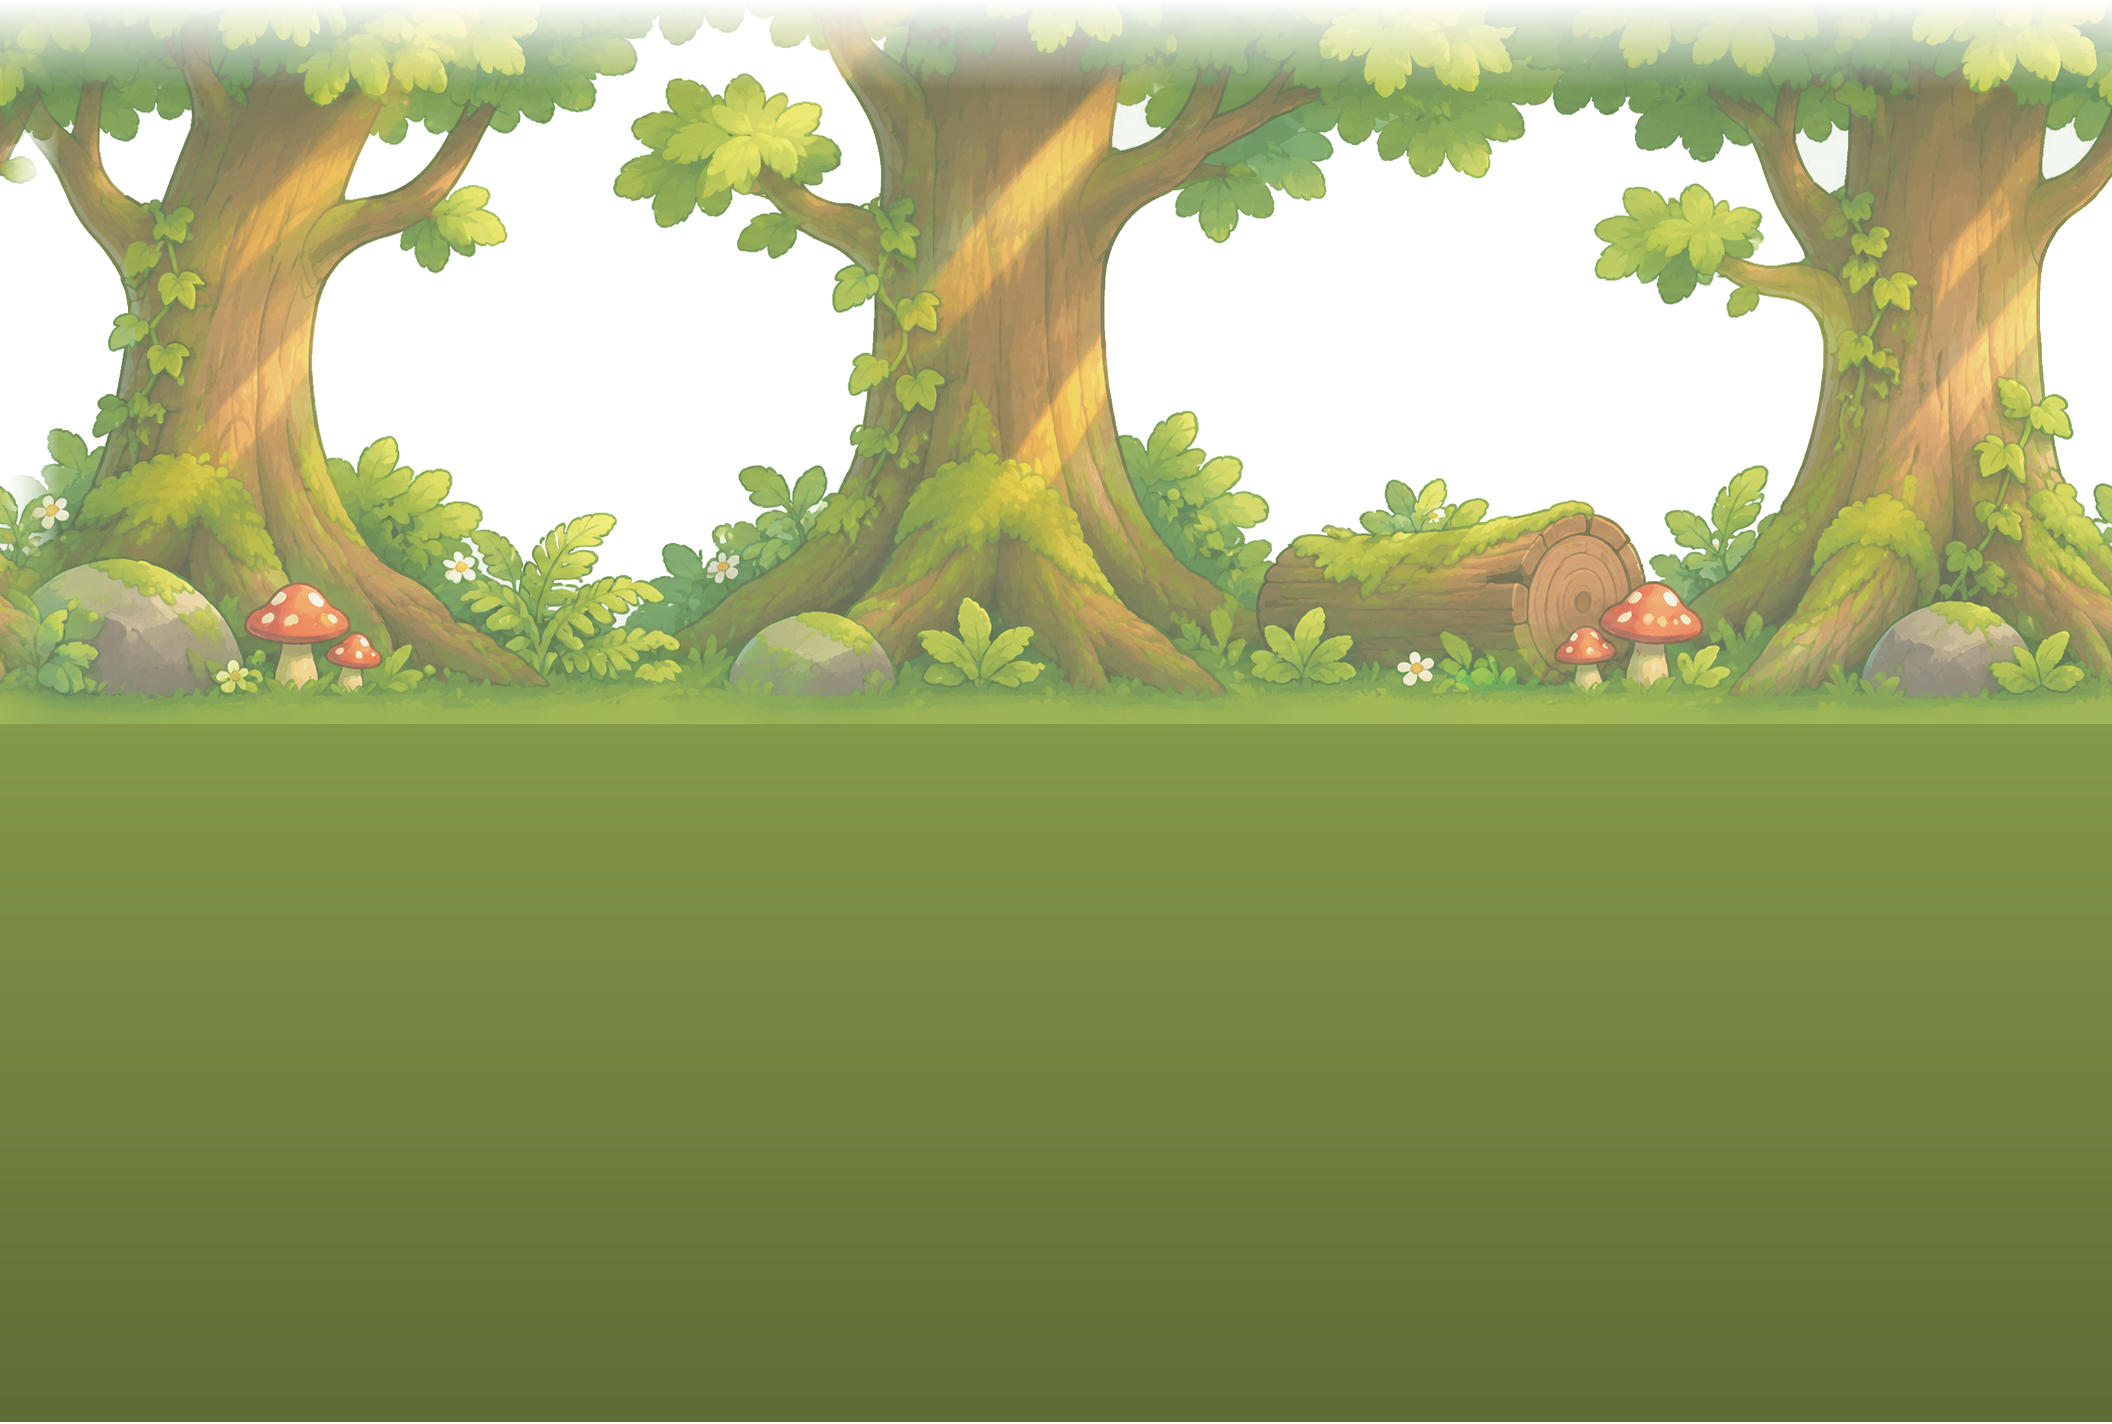
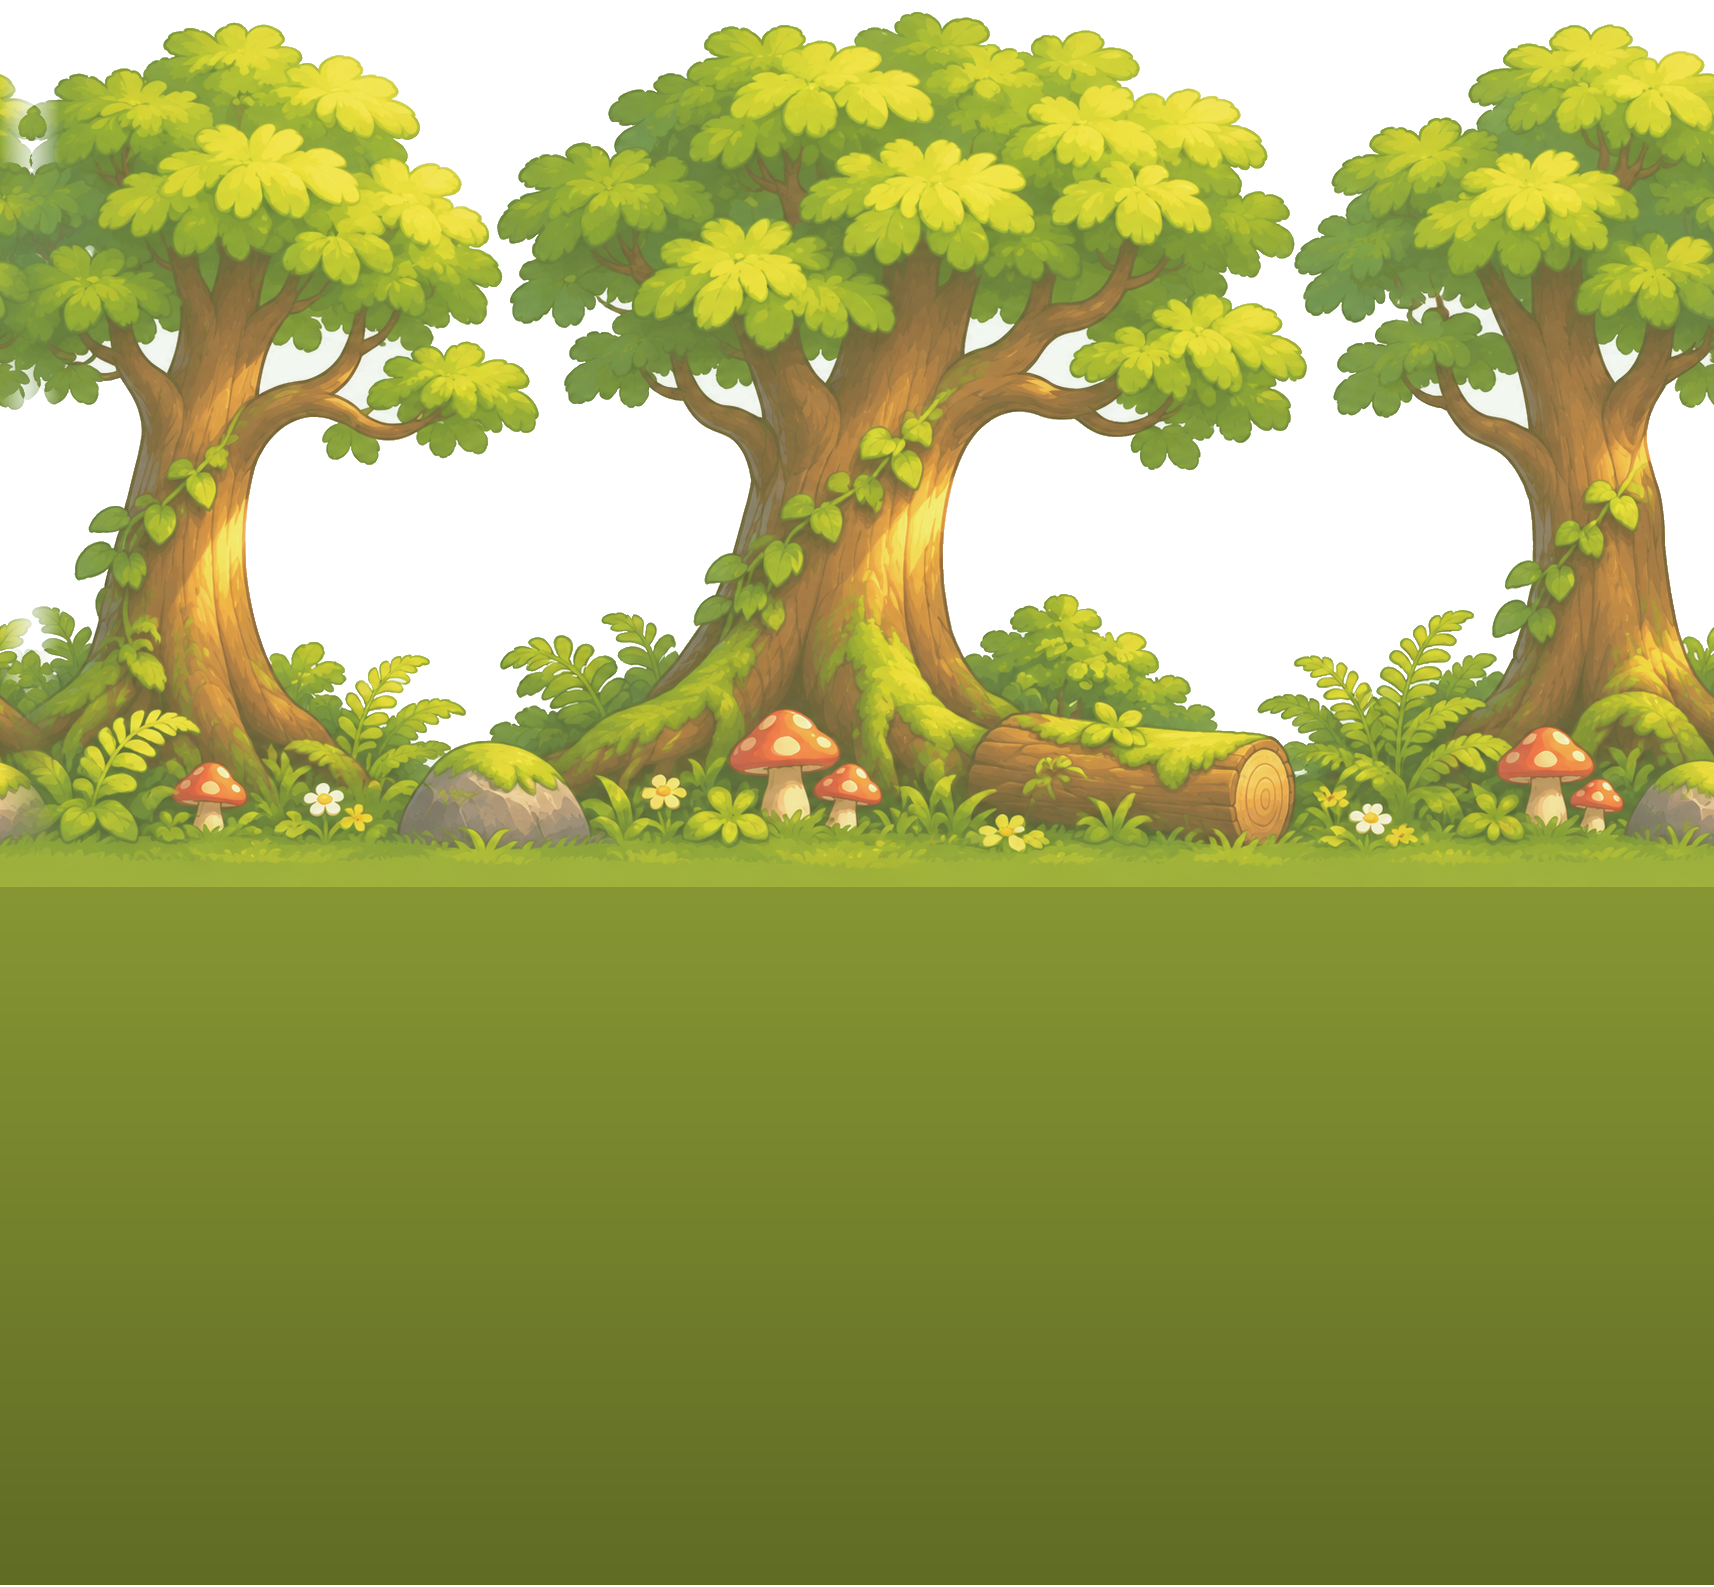
Hidden level-edge walls, taller forest trees, tired face everywhere
Level edge walls stay solid but aren't drawn, and the camera stops at the
ground's ends. The owners' taller trees picture covers the forest all the
way up. When out of energy the cat keeps her sleepy face while walking
(a trudge with a dip and sway) and in the air.

diff --git a/tools/art_pipeline/make_forest.py b/tools/art_pipeline/make_forest.py
@@ -13,7 +13,7 @@ Objects (assets/art/objects): log raft (the forest's moving platform), bump crat
 hedgehog (walk A / B, angry + its "!" burst), pinecone (hanging, falling, landed).
 Background (assets/art/backgrounds/forest):
   far    - sunbeams, canopy and hazy trees (top fades into the plain sky colour)
-  mid    - big mossy trees, white gaps cut away, a light haze so they stay behind the play,
+  mid    - big mossy trees with full crowns, white cut away, a light haze so they stay behind the play,
            grass colour continued below, darkening
 
 Run:  python tools/art_pipeline/make_forest.py   (prints the numbers the game uses)
@@ -47,7 +47,7 @@ HOG_SCALE = 0.22        # hedgehog ~120 px wide, about a slime's size
 CONE_SCALE = 0.17       # pinecone ~55 px wide
 DECO_SCALE = 0.3
 FAR_SCALE = 1.45
-MID_SCALE = 1.0       # the trees are drawn big: at 1.3 a trunk filled half the screen
+MID_SCALE = 1.0       # 1774 x 887: trees about as tall as the screen
 MID_HAZE = (np.array([206.0, 226.0, 196.0]), 0.22)   # colour and strength mixed into the trees layer
 BELOW_ROWS = 700
 
@@ -162,12 +162,14 @@ def main():
     numbers["bg_far"] = save(far, BACK / "bg_far.png")
 
     # The gaps between the trees are closed in by the canopy, so they are cleared as enclosed holes too.
-    mid = remove_background(load("Whimsical Sunlit Forest Strip.png"), hole_min_area=3000)
+    # The owners' taller trees (12 Nov 2026): full crowns inside the picture, so climbing high never
+    # reaches a cut-off canopy. The gaps are closed in by branches: cleared as enclosed holes too.
+    mid = remove_background(load("Vibrant Seamless Cartoon Forest Foreground.png"), hole_min_area=3000)
     mid = np.asarray(scaled(to_image(mid), MID_SCALE)).astype(np.float32)
     mid = crossfade_wrap(mid, 60)
     colour, amount = MID_HAZE
     mid[..., :3] = mid[..., :3] * (1.0 - amount) + colour * amount
-    mid[:90, :, 3] *= np.linspace(0.0, 1.0, 90)[:, None]   # the cut-off canopy fades out at the top
+    mid[:12, :, 3] = 0   # the layer repeats upward too: keep its first rows clear
     grass = mid[-6:, :, :3].reshape(-1, 3)
     grass = grass[mid[-6:, :, 3].reshape(-1) > 200].mean(axis=0)
     below = np.zeros((BELOW_ROWS, mid.shape[1], 4), np.float32)

diff --git a/plan.md b/plan.md
@@ -356,6 +356,7 @@ Order agreed 30 Oct 2026: save system → home page → level map → pause / le
   - ✅ **Step 3, hedgehog + pinecone (12 Nov 2026):** **`hedgehog.tscn`** (`Hedgehog`, extends `Slime`, speed 70): any touch hurts, from the side **or from above** (no stomping); it puffs up for 1 s (angry frame + the "!" burst) after hurting the cat; small, low touch zone (84×64). Frames padded to one canvas in `make_forest.py` so its feet never jump. **Fair window, measured:** a full jump taken 100–300 px before a standing hedgehog clears it, 100–240 px before one walking toward her (from farther she comes down on its spines — intended). **`pinecone.tscn`** (`Pinecone`, origin = its landing spot on the ground): hangs `height` 430 px up (first try 560 was off the top of the screen); wakes when the cat is within 700 px, then **warns for `warn_time` 1 s** (shivers on its twig while a dark oval shadow grows on the ground; first shadow was too faint on grass → darker, bigger), drops (hurts only while falling), thuds, hops, rolls and fades; `every` > 0 repeats the drop on a rhythm, `first_delay` puts cones out of step. Test: `dev/m3_forest_hazards_test.gd` (hedgehog: walks, landing on it hurts, walking into it hurts, 32 fair jumps never hurt; pinecone: waits when far, warns first, hurts if she stays, safe if she runs on, repeats). Preview level has one of each.
   - ✅ **Step 4, level tools (12 Nov 2026):** `tools/levels/build_world3.py` (`ForestLevel`, World 1's recipe builder in the forest theme) adds `flat(hedgehogs=…, cones=[(x, every, delay)], crates=[(x, lift, coins, milk)])`, **`hill(steps, step, top)`** (ground steps up and back down), **`canopy(length, low, coins, yarn)`** (two routes: an entry step 180 px up, then walkways 360 px up with 140 px gaps, coins and maybe the yarn; the forest floor below with its own hazards) and **`tree_climb(rise, length)`** (a cliff up to 720 px, climbed on 220 px ledges zigzagging up 180 px at a time, always ending beside the cliff). Builder pieces are **named** (`Climb1_Ledge2`, `Canopy1_Walk3`; World 1's builder gained `tags` for this, Worlds 1–2 unchanged) so tests find them. **New fair-play rule (found by the play test): no pinecone under a walkway or ledge** — it fell on the cat up on the high route while its shadow showed on the floor; the builder refuses it and the fairness test flags it. Fairness test: hedgehogs and pinecones get danger zones (like slimes), a climb counts as a way up a cliff, and it also checks `dev/forest_tools_demo.tscn` (every tool once, dev only). Play test `dev/m3_routes_test.gd` climbs every tree climb ledge by ledge and runs every high route end to end (yarn collected, no heart lost) in the demo and in all World 3 levels; `m1_levels_test` counts crate coins.
   - ✅ **Step 5, map + the 10 levels (12 Nov 2026):** World 3 map (`map_w3.png`, lossy like the others; 10 pads measured by colour; the girl waits past the last pad by the cottage) in `level_map.gd`'s `WORLDS`; it opens after 2-10 with the same walk and "World 3 unlocked!" card. Levels from `build_world3.py`: 3-1 Into the Woods 10.6k px (crates intro) · 3-2 Hedgehog Hollow 11.7k · 3-3 Canopy Walk 11.8k (two high routes, yarn up top) · 3-4 Pinecone Path 12.4k (cones one at a time, then rhythms) · 3-5 Mushroom Grove 13.0k (6 mushrooms, a mushroom staircase) · 3-6 Log Raft River 16.0k (13 rafts: 3- and 4-raft chains, bobbers, a diagonal) · 3-7 The Great Oak 11.8k (two tree climbs, 540 and 700 px, a high route between) · 3-8 Misty Glade 16.6k (everything) · 3-9 Thorn Thicket 19.3k (hardest: cone rhythms, hedgehogs, a 4-raft chain, a 2800 px canopy, a 700 px climb) · 3-10 Forest Home 12.3k (calm, big hug, "World 3 complete!"). Catalog **30 levels**; names in `strings.csv`. The no-pinecone-under-a-ledge rule caught two cones under walkways while building (3-8, 3-9) → moved past the walkways' end. All 30 levels pass the fairness test on the first run. The map test now works for any number of worlds (▶ hidden only on the last). **Play-through found (12 Nov 2026):** the 700 px climbs (3-7, 3-9) had their top ledge 20 px *above* the cliff → `tree_climb` now spaces its ledges **evenly** from floor to cliff top (every hop the same, ≤ 180 px; fairness rule: top ledge ≤ 200 px below the cliff). All World 3 levels load, count their coins (crates included) and finish at the girl; every climb and high route plays through with no heart lost (12 checks).
+  - **Owners' look at World 3 (12 Nov 2026):** (1) the tall brown edge walls at every level's start and end looked odd, and past them the next background showed → **all levels**: `Level._hide_edge_walls()` keeps `LeftWall`/`RightWall` solid but not drawn, and the camera limits now come from the ground only (the level starts and ends exactly at its ground's edges). (2) forest trees layer lowered again (top +45). (3) ✅ owners' **taller trees picture** "Vibrant Seamless Cartoon Forest Foreground" (1774×887, full crowns inside the picture) replaced the first trees layer (`make_forest.py`, layer top −120): the forest is covered all the way up, even on the tallest climbs. (4) **Tired face everywhere (all worlds):** the cat only has standing tired drawings, so when her energy is out she now uses them while moving too — `tired_walk` (droopy eyes, now and then closed, like sleep-walking) with a heavy trudge done in code (`Player._trudge`: the body dips 7 px at each step and sways 2.5°, steps paced by her speed) and `tired_air` (droopy face during jumps/falls); the wide-eyed landing pose is skipped while tired. A future option: proper tired walk/jump drawings.
   - **Code work:** forest theme (ground, background, water tint, music), pinecone + shadow, hedgehog (can't-stomp rule), bump crate, level builder pieces for routes / hills / tree climbs, World 3 map entry, fairness + play-through tests for the new pieces.
 - [ ] Remaining animations, music, SFX
 - [ ] All achievements + leaderboards (+ offline queue)
